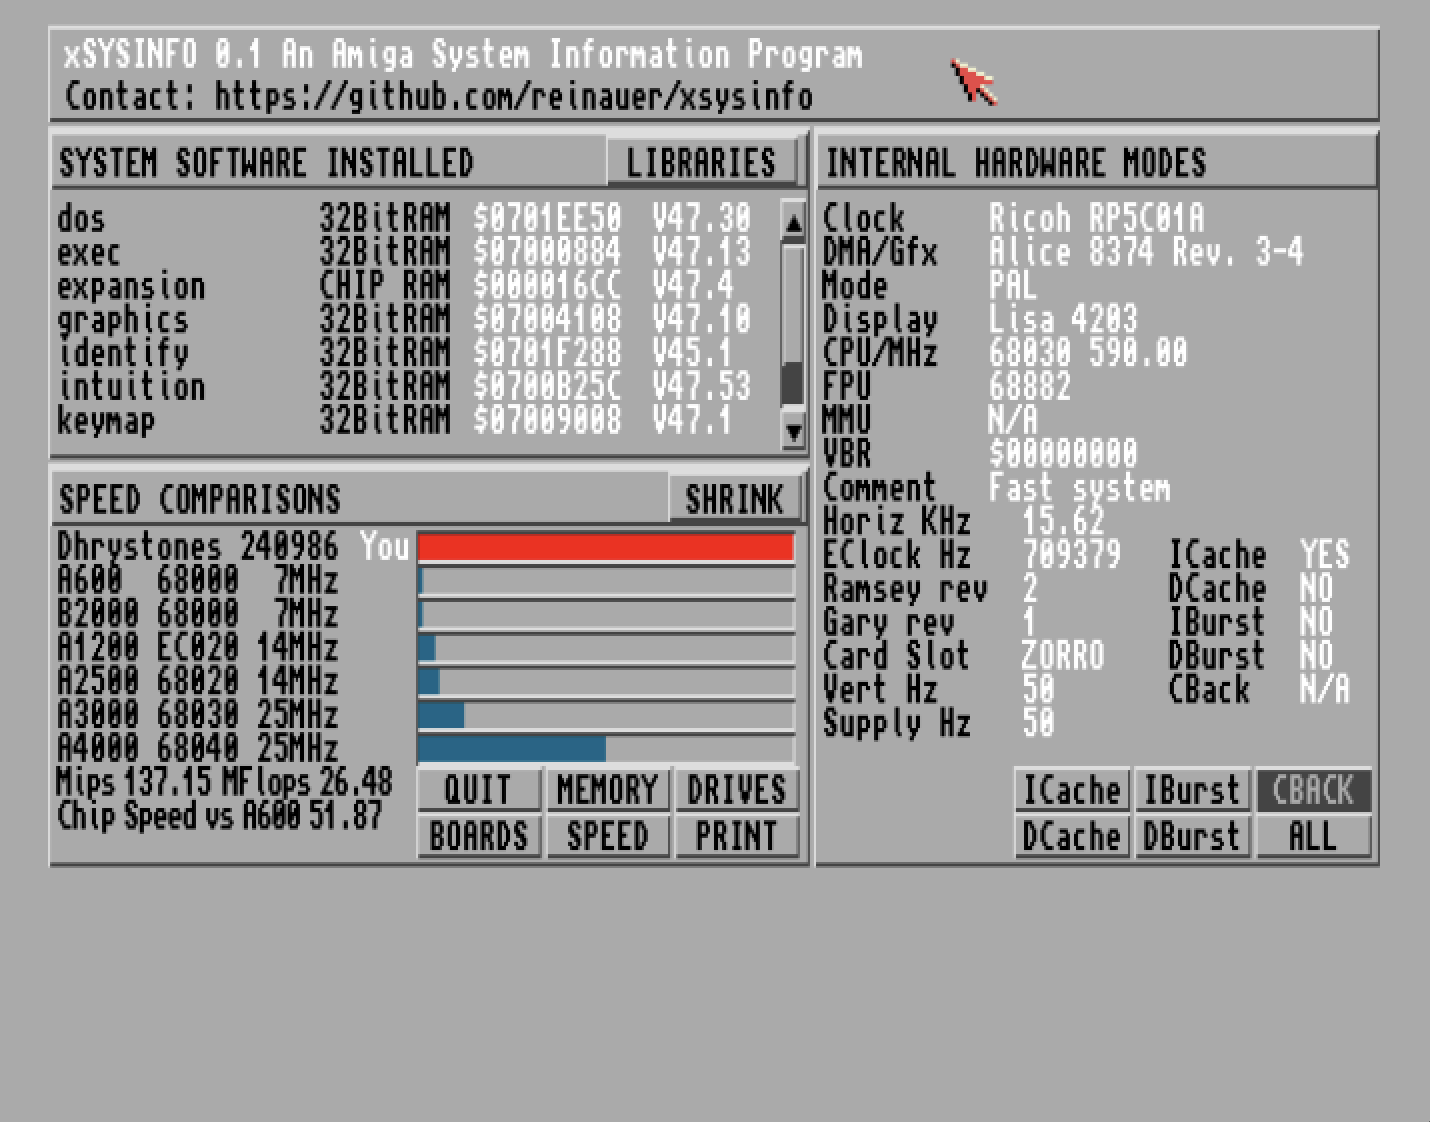
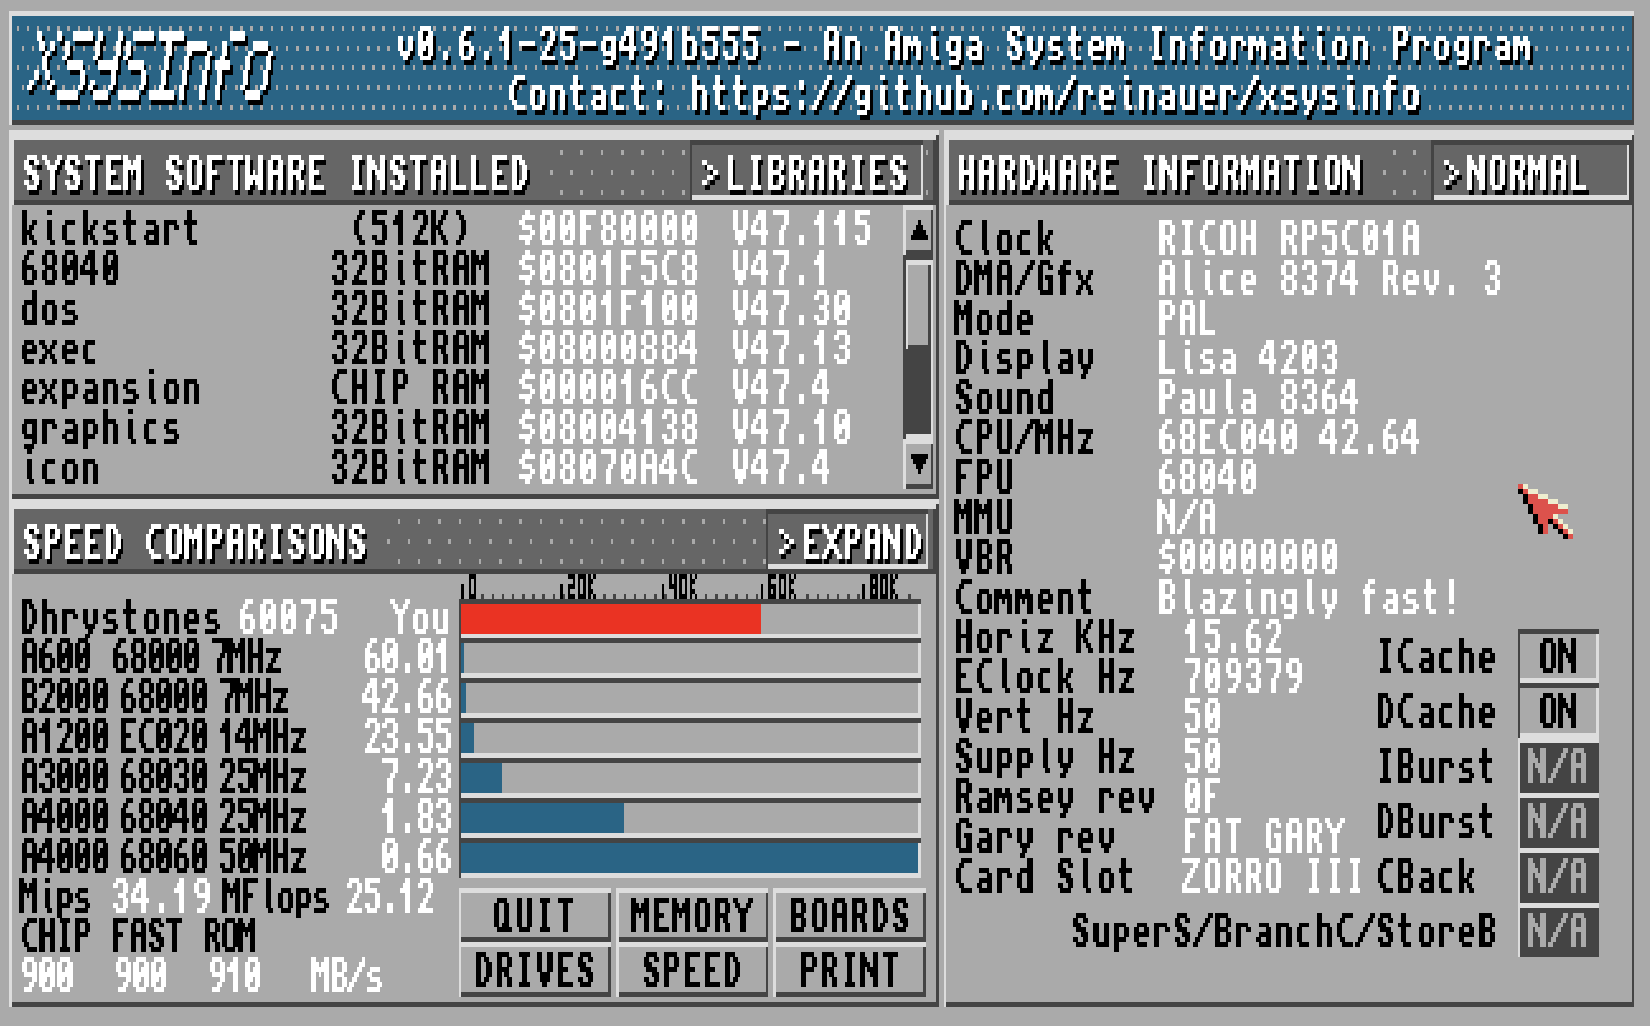
Update documentation
New screenshots

diff --git a/README.md b/README.md
@@ -1,6 +1,6 @@
 # xSysInfo
 
-![XSysInfo](docs/xsysinfo-v0.2a.png)
+![XSysInfo](docs/xsysinfo.png)
 
 `xSysInfo` is a comprehensive system information utility designed for AmigaOS. It provides detailed insights into your Amiga system's hardware and software configuration, along with benchmarking capabilities.
 